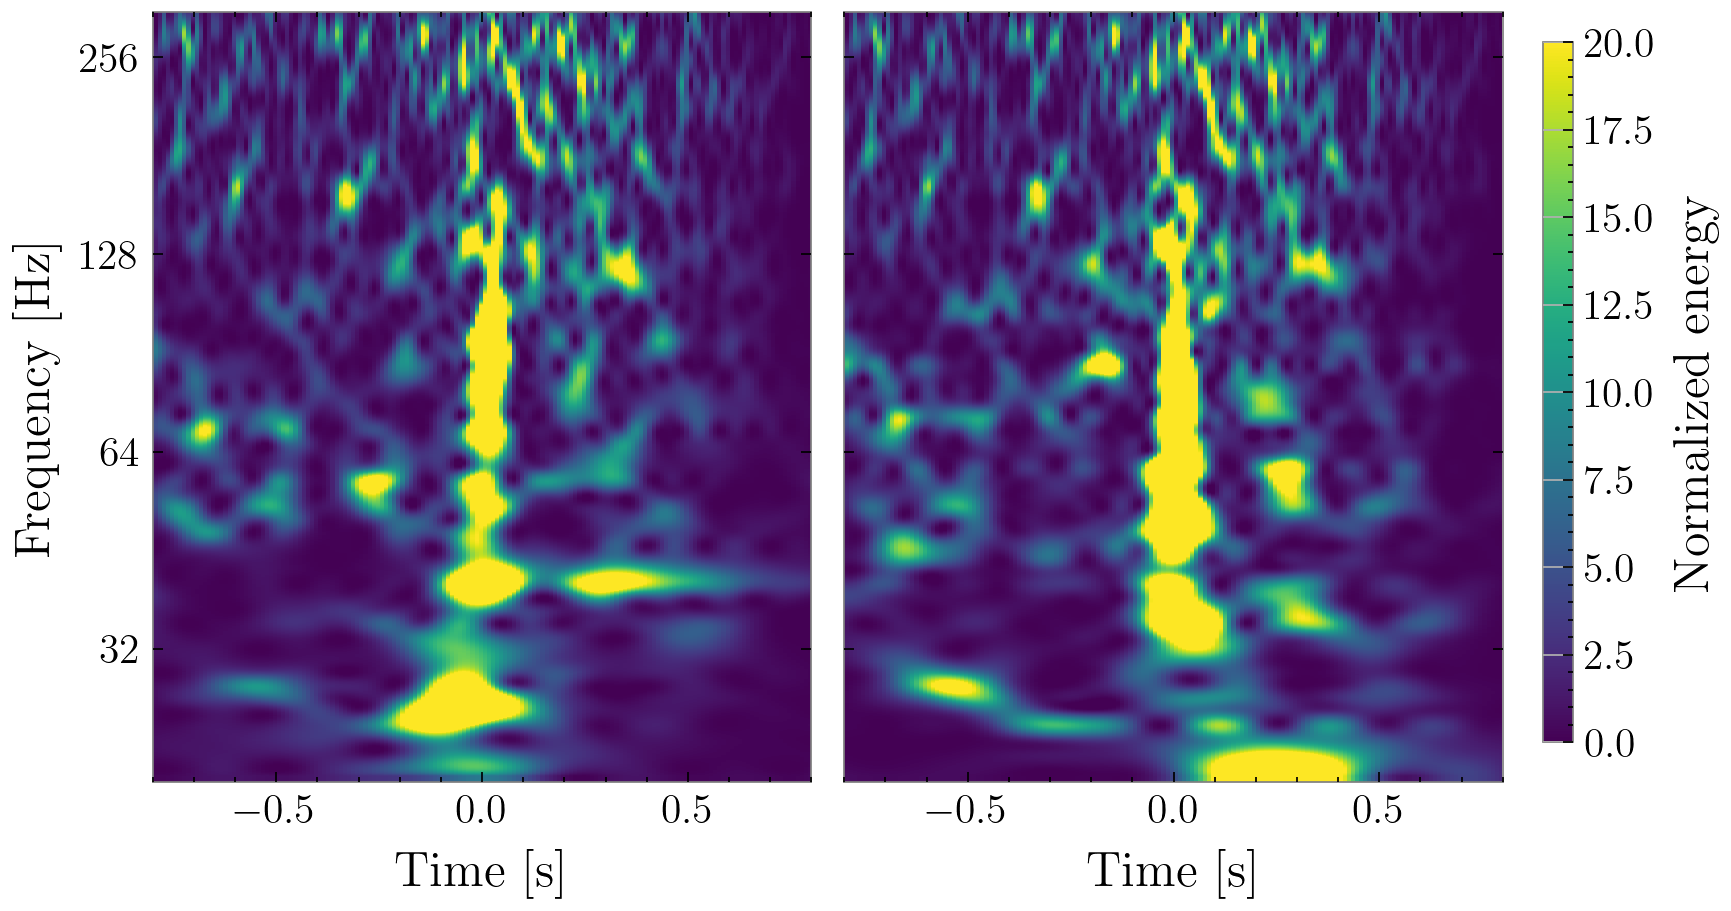
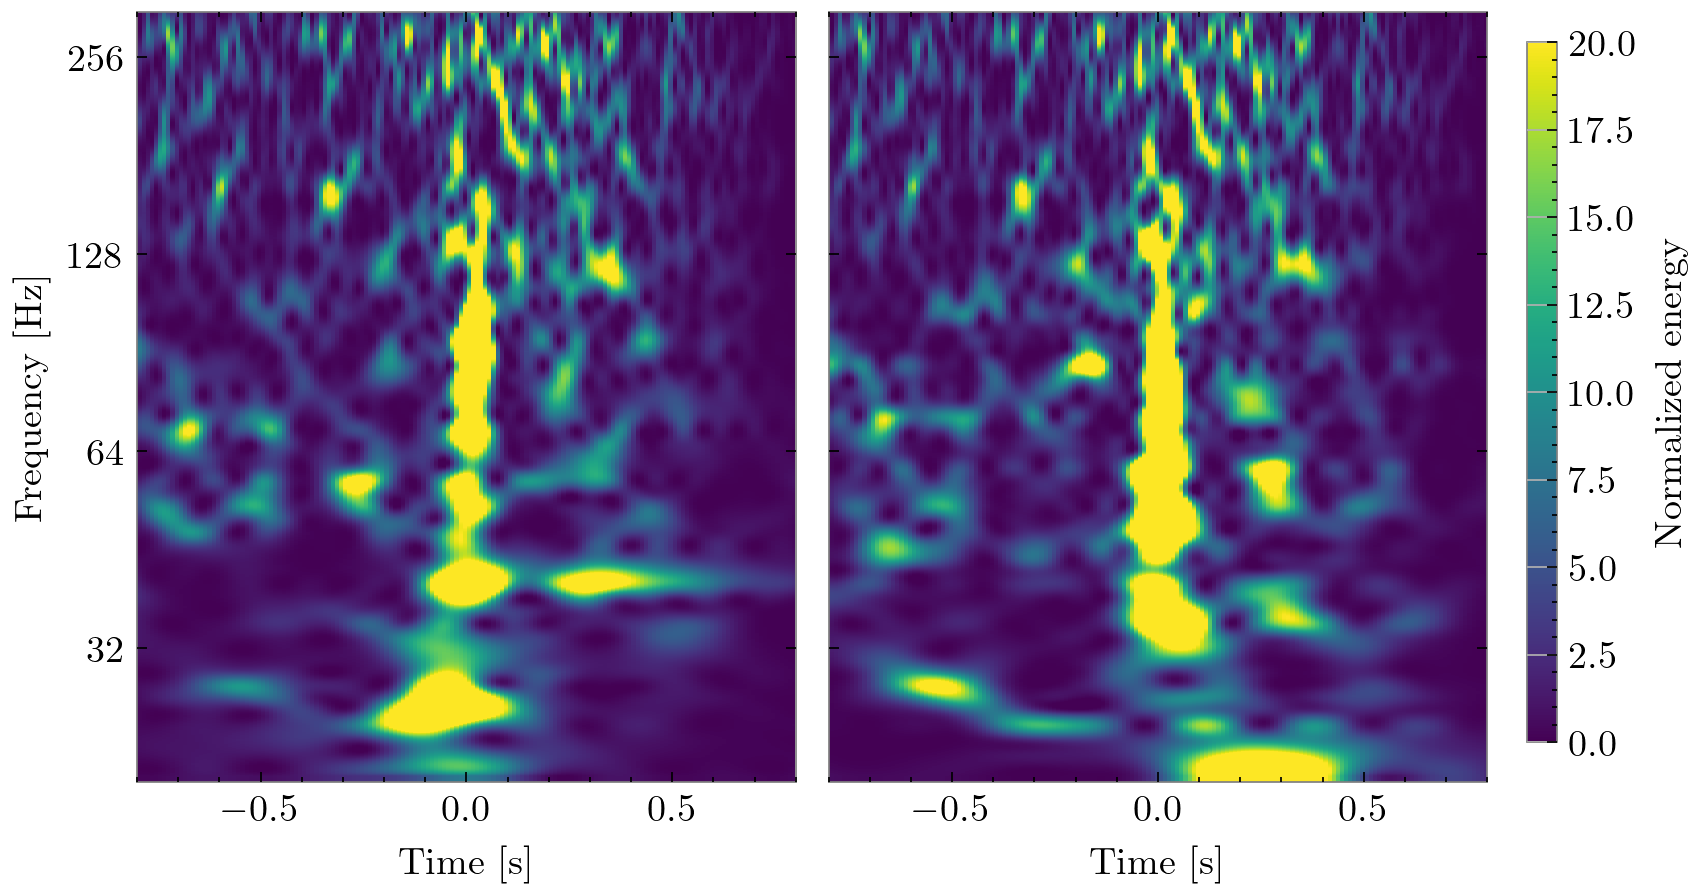
Update the fontsize

diff --git a/plotting_directory/blip_highmass/plotting_glitch_signal_overlap.py b/plotting_directory/blip_highmass/plotting_glitch_signal_overlap.py
@@ -135,6 +135,10 @@ glitch_only_time_series = TimeSeries(coloured_glitch_only_time_array, times = if
 signal_only_timeseries = TimeSeries(ifos[0].time_domain_strain, times = ifos[0].time_array, channel = 'ET1:STRAIN')
 
 
+plt.rcParams['axes.labelsize'] = 11.
+plt.rc('xtick',labelsize=11)
+plt.rc('ytick',labelsize=11)
+
 ###### making the q scans for the ET1 and for null stream ################
 fig, axes = plt.subplots(1, 2, figsize = (8, 4), sharey = True, sharex = True, gridspec_kw = {'wspace': 0.05})
 
@@ -176,7 +180,7 @@ ax.set_xlabel('Time [s]')
 
 fig.colorbar(imshow, cax=cbar_ax, label = "Normalized energy")
 fig.savefig(f'../../figures/{args.label}_highmass_blip_qscan.png', bbox_inches = 'tight', dpi = 250)
-fig.savefig(f'./{args.label}_highmass_blip_qscan.png', bbox_inches = 'tight', dpi = 250)
+#fig.savefig(f'./{args.label}_highmass_blip_qscan.png', bbox_inches = 'tight', dpi = 250)
 
 ##########################################################################
 
